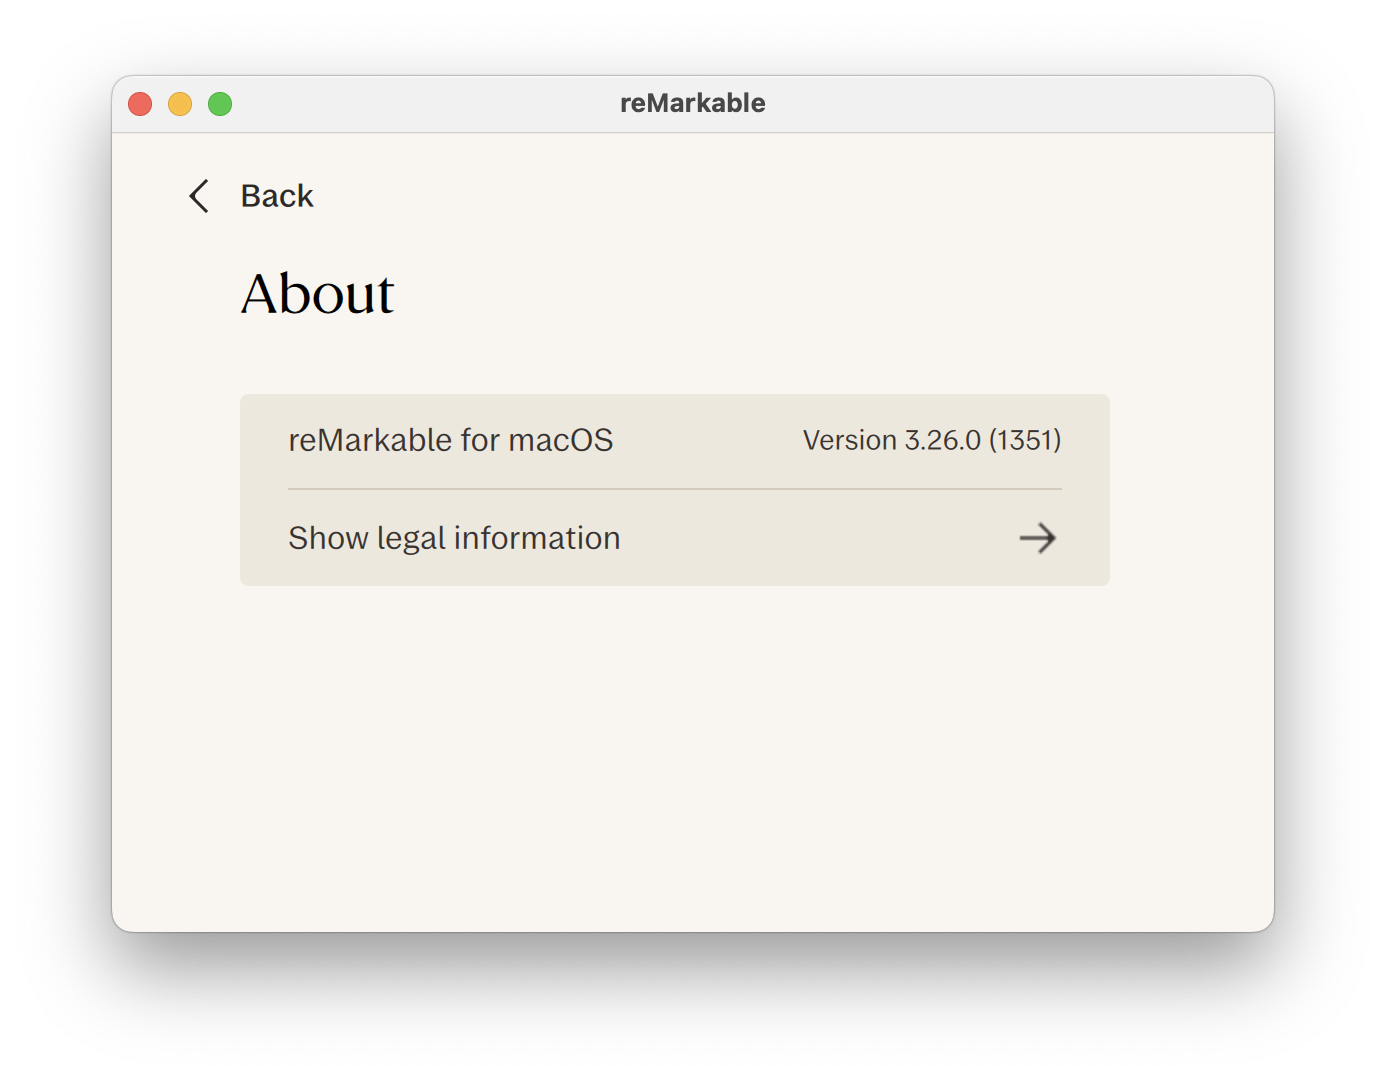
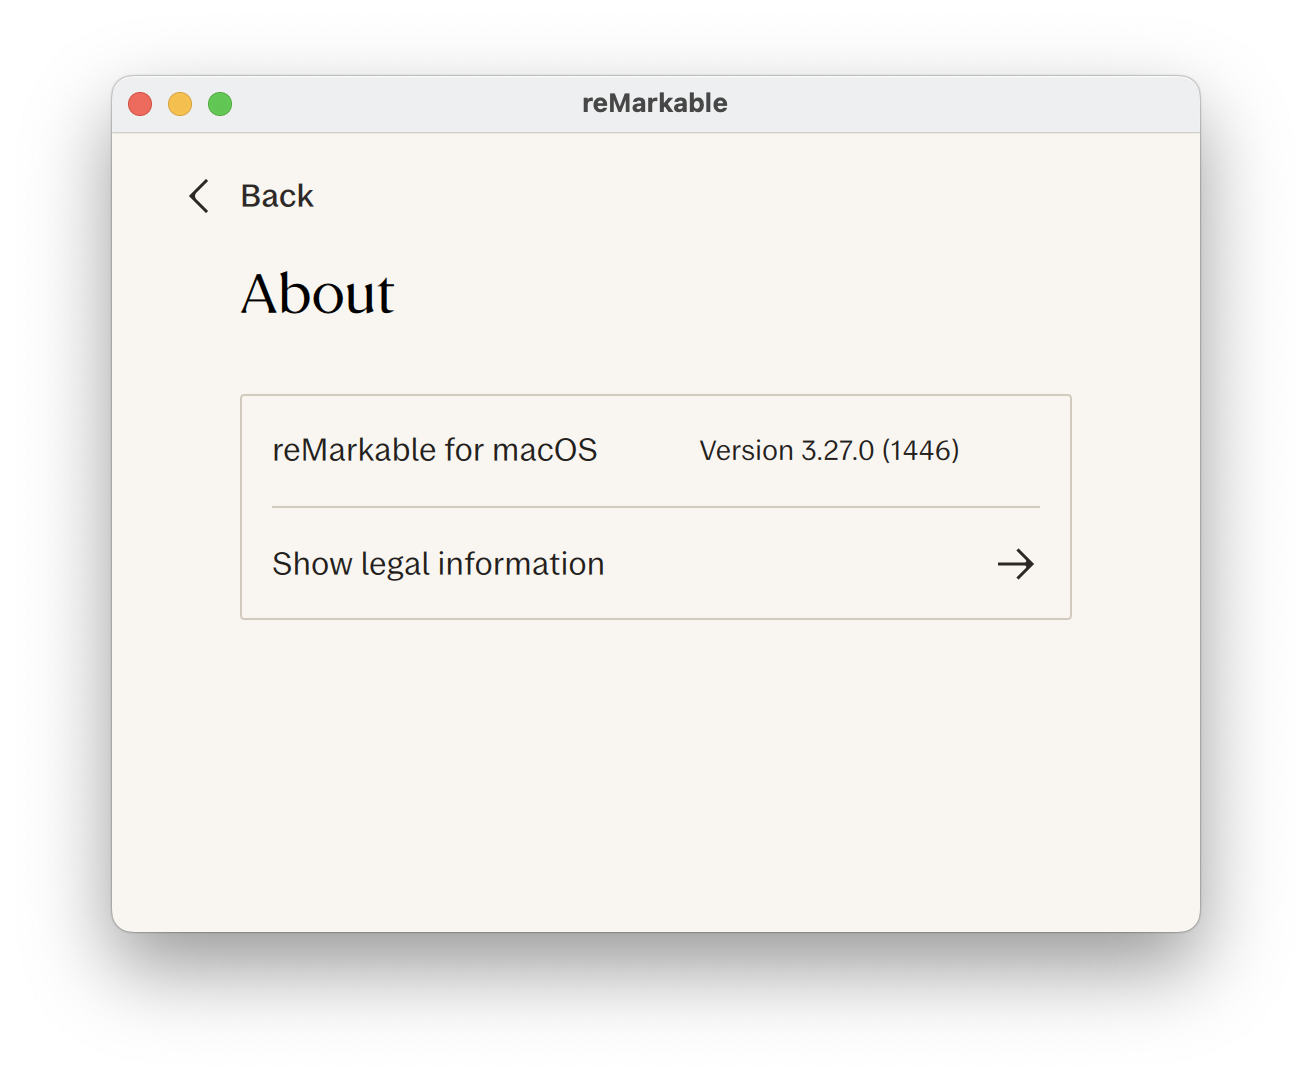
Bump reMarkable Desktop compatibility to v3.27

diff --git a/README.md b/README.md
@@ -14,7 +14,7 @@ RMHook hooks into the reMarkable Desktop app's network layer to redirect API cal
 ## Compatibility
 
 **Tested and working on:**
-- reMarkable Desktop v3.26.0 (released 2026-23-03)
+- reMarkable Desktop v3.27.0 (released 2026-06-05)
 
 <p align="center">
   <img src="docs/latest.png" width="40%" />